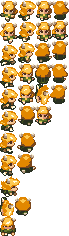
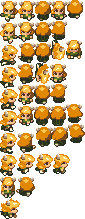
character movement

diff --git a/src/scenes/Game.ts b/src/scenes/Game.ts
@@ -1,19 +1,17 @@
 import Phaser from 'phaser'
 
-export default class Game extends Phaser.Scene
-{
-	constructor()
-	{
+export default class Game extends Phaser.Scene {
+  private cursors!: Phaser.Types.Input.Keyboard.CursorKeys
+  private faune!: Phaser.Physics.Arcade.Sprite
+	constructor() {
 		super('game')
 	}
 
-	preload()
-  {
-
+	preload() {
+    this.cursors = this.input.keyboard.createCursorKeys()
   }
 
-  create()
-  {
+  create() {
     const map = this.make.tilemap({ key: 'dungeon' })
     const tileset = map.addTilesetImage('dungeon', 'tiles')
 
@@ -28,6 +26,85 @@ export default class Game extends Phaser.Scene
       faceColor: new Phaser.Display.Color(40, 39, 37, 255)
     })
 
+    this.faune = this.physics.add.sprite(128, 128, 'faune', 'walk-down-3.png')
+
+
+    this.anims.create({
+      key: 'faune-idle-down',
+      frames: [{ key: 'faune', frame: 'walk-down-3.png'}]
+    })
+
+    this.anims.create({
+      key: 'faune-idle-up',
+      frames: [{ key: 'faune', frame: 'run-up-1.png'}]
+    })
+
+    this.anims.create({
+      key: 'faune-idle-side',
+      frames: [{ key: 'faune', frame: 'run-side-1.png'}]
+    })
+
+    this.anims.create({
+      key: 'faune-run-down',
+      frames: this.anims.generateFrameNames('faune', { start: 1, end: 8, prefix: 'run-down-', suffix: '.png'}),
+      repeat: -1,
+      frameRate: 15,
+    })
+
+    this.anims.create({
+      key: 'faune-run-up',
+      frames: this.anims.generateFrameNames('faune', { start: 1, end: 8, prefix: 'run-up-', suffix: '.png'}),
+      repeat: -1,
+      frameRate: 15,
+    })
+
+    this.anims.create({
+      key: 'faune-run-side',
+      frames: this.anims.generateFrameNames('faune', { start: 1, end: 8, prefix: 'run-side-', suffix: '.png'}),
+      repeat: -1,
+      frameRate: 15,
+    })
+
+
+    this.faune.anims.play('faune-idle-down')
+
   }
 
+
+  update(t: number, dt: number) {
+    if (!this.cursors || !this.faune) {
+      return
+    }
+
+    const speed = 100
+    if (this.cursors.left?.isDown) {
+      this.faune.anims.play('faune-run-side', true)
+      this.faune.setVelocity(-speed, 0)
+
+      this.faune.scaleX = - 1
+    }
+
+    else if (this.cursors.right?.isDown) {
+      this.faune.anims.play('faune-run-side', true)
+      this.faune.setVelocity(speed, 0)
+
+      this.faune.scaleX = 1
+    }
+
+    else if (this.cursors.up?.isDown) {
+      this.faune.anims.play('faune-run-up', true)
+      this.faune.setVelocity(0, -speed)
+    }
+
+    else if (this.cursors.down?.isDown) {
+      this.faune.anims.play('faune-run-down', true)
+      this.faune.setVelocity(0, speed)
+    
+    }
+
+    else {
+      this.faune.play('faune-idle-down')
+      this.faune.setVelocity(0, 0)
+    }
+  }
 }

diff --git a/src/scenes/Preloader.ts b/src/scenes/Preloader.ts
@@ -11,6 +11,8 @@ export default class Preloader extends Phaser.Scene
     {
         this.load.image('tiles', 'tiles/dungeon_tiles.png')
         this.load.tilemapTiledJSON('dungeon', 'tiles/dungeon-01.json')
+
+        this.load.atlas('faune', 'character/fauna.png', 'character/fauna.json')
     }
 
     create() 
